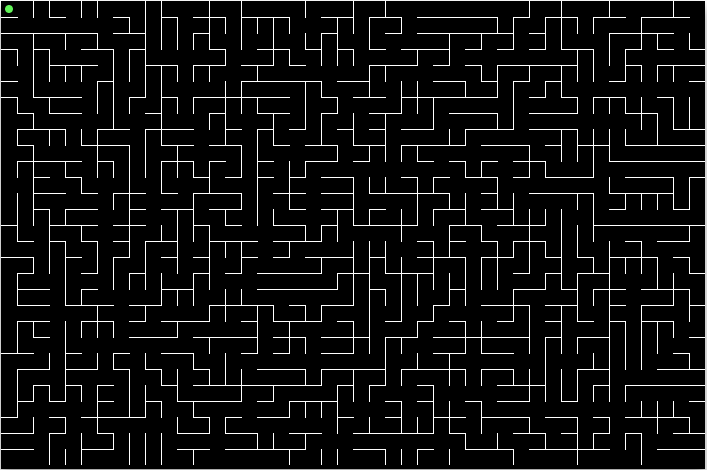
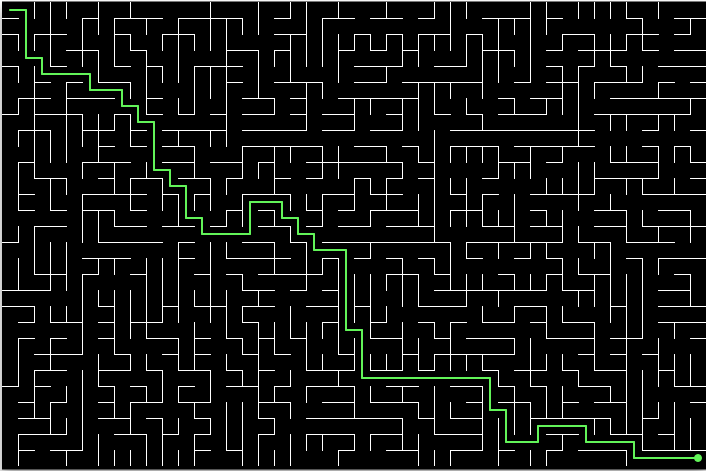
Updated screenshots to include solution

Changed region(s): [[0.0, 0.0, 1.0, 1.0]]

diff --git a/public/js/form-processor.js b/public/js/form-processor.js
@@ -56,13 +56,13 @@ $("select").change(function() {
 	option = $(this).val();
 
 	if (option == "one-on-one") {
-		$("#mode-select").val("one-on-one");
+		//$("#mode-select").val("one-on-one");
 		$("#menu-1").css({"display":"none"});
 		$("#menu-2").css({"display":"inline"});
 	} 
 
 	if (option == "single-player") {
-		$("#mode-select").val("single-player");
+		//$("#mode-select").val("single-player");
 		$("#menu-2").css({"display":"none"});
 		$("#menu-1").css({"display":"inline"});
 	}

diff --git a/server.js b/server.js
@@ -459,7 +459,7 @@ function playerConnect(user) {
             io.to(room.playerIDs[i]).emit("maze", [room.maze, room.difficulty]);
             io.to(room.playerIDs[i]).emit("paired", roomID, true);
 
-            room.playerIDs[i] = [0, 0]; // reset the player position in the dictionary
+            room.playerPositions[i] = [0, 0]; // reset the player position in the dictionary
         }
     }
 }
